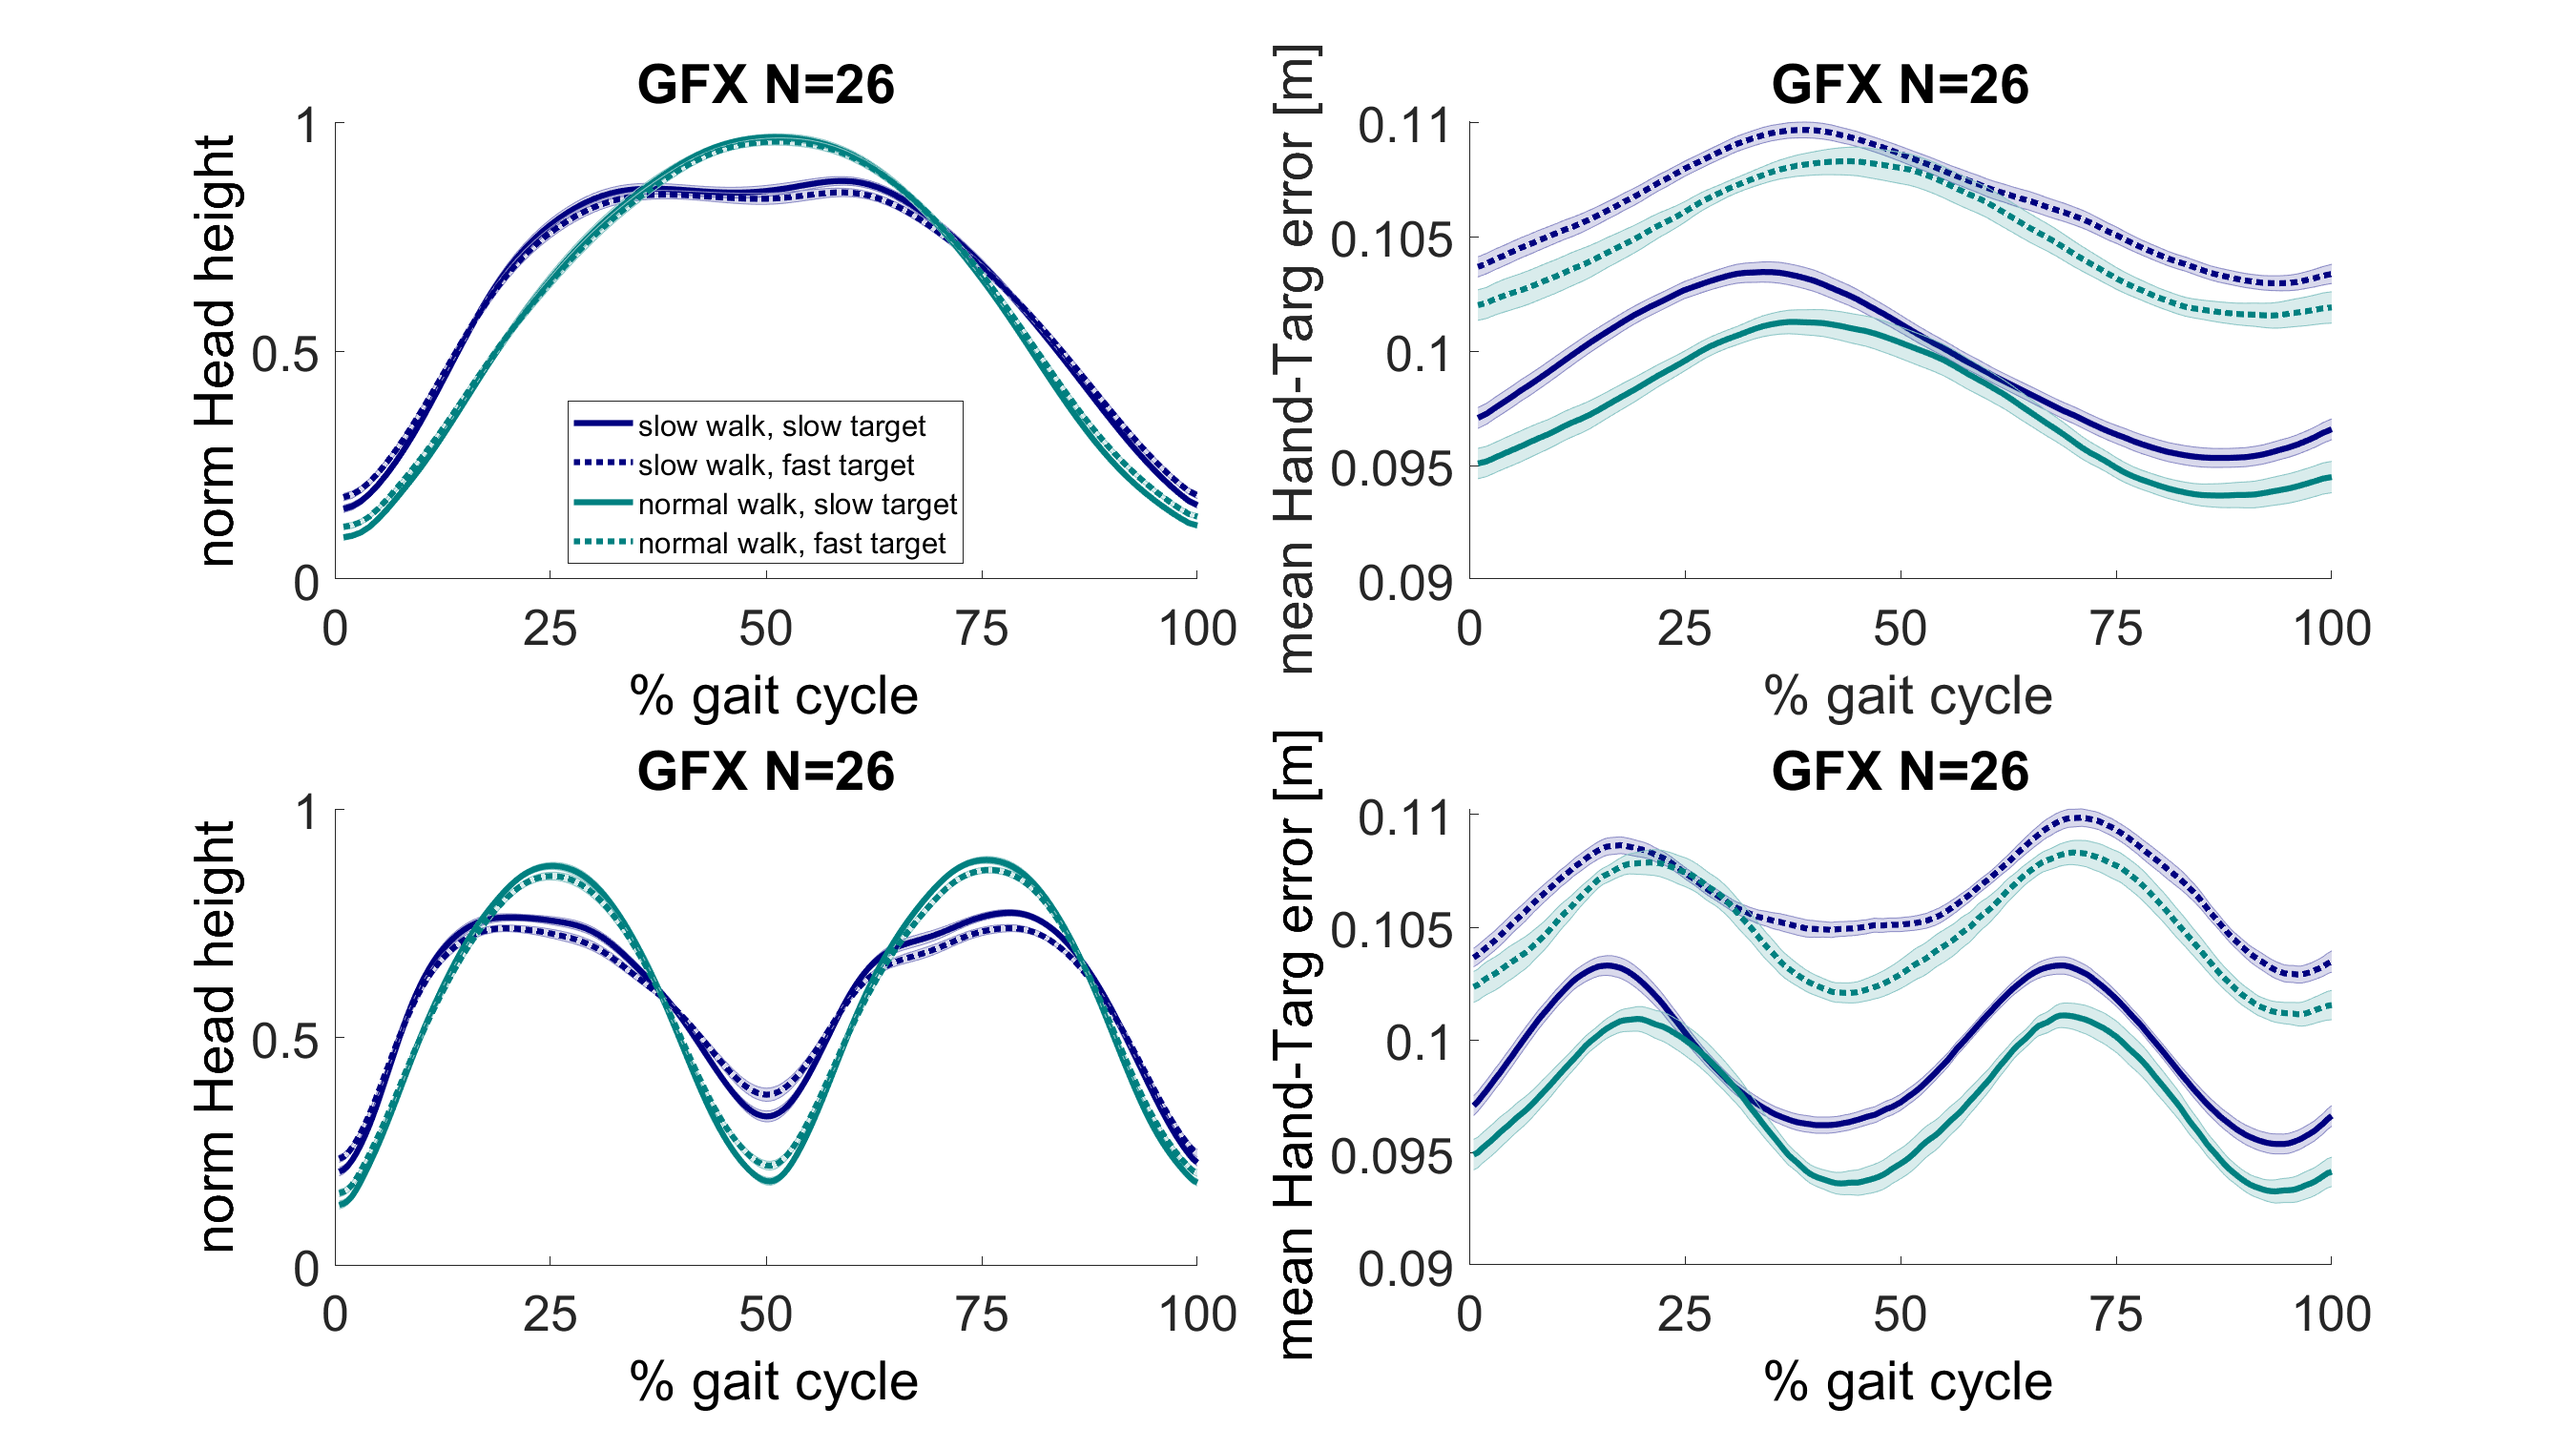
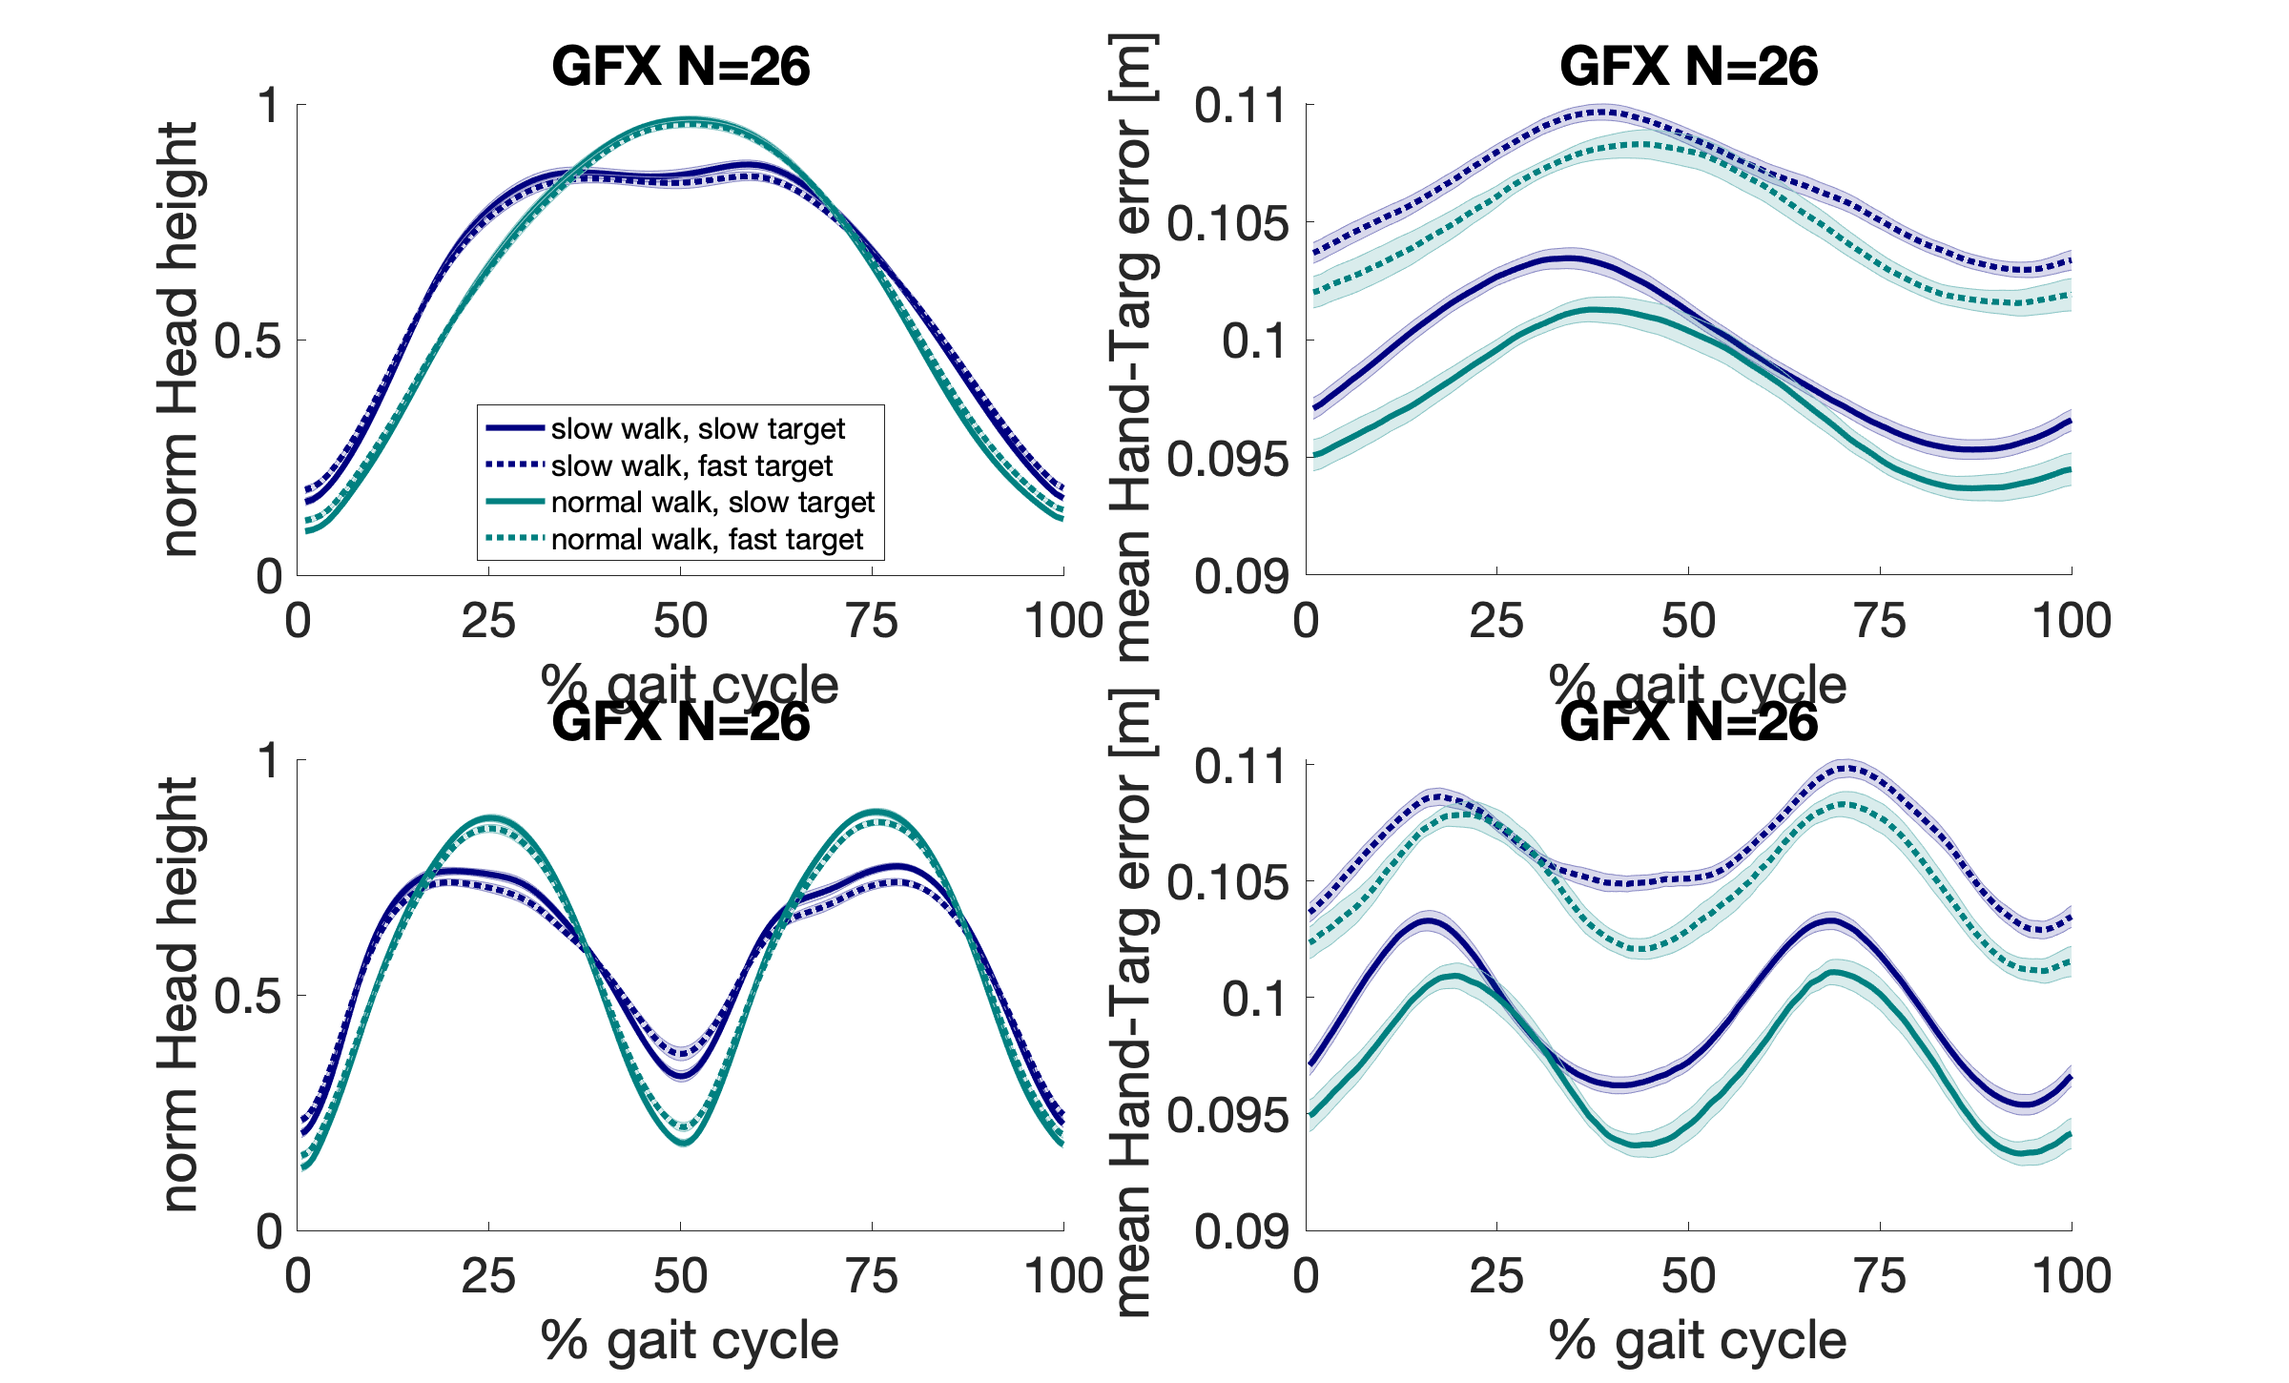
plotting and directory changes

diff --git a/Analysis Code/Tracking ver 0/support_files/VR_import_plot.m b/Analysis Code/Tracking ver 0/support_files/VR_import_plot.m
@@ -4,11 +4,11 @@
 %%%%%% TRACKING TASK version %%%%%%
 %frame by frame first:
 %Mac:
-%  datadir='/Users/matthewdavidson/Documents/GitHub/active-perception-tracking_ver0/Analysis Code/Tracking ver 0/Raw_data';
+ datadir='/Users/matthewdavidson/Documents/GitHub/active-perception-tracking_ver0/Analysis Code/Tracking ver 0/Raw_data';
 %mac-HD
 % datadir = '/Volumes/WHITEHD_TB/Tracking ver 0/Raw_data';
  %PC:
-datadir='C:\Users\User\Documents\matt\GitHub\active-perception-tracking_ver0\Analysis Code\Tracking ver 0\Raw_data';
+% datadir='C:\Users\User\Documents\matt\GitHub\active-perception-tracking_ver0\Analysis Code\Tracking ver 0\Raw_data';
 %PC-HD
 % datadir = 'E:\Tracking ver 0\Raw_data';%%
 
@@ -21,7 +21,7 @@ nsubs= length(pfols);
 tr= table([1:length(pfols)]',{pfols(:).name}' );
 disp(tr)
 %% Per csv file, import and wrangle into Matlab Structures, and data matrices:
-for ippant = 20:nsubs
+for ippant = 12:nsubs
    %%
     cd(datadir)
    

diff --git a/Analysis Code/Tracking ver 0/support_files/j4_plotError_by_gaitcycle.m b/Analysis Code/Tracking ver 0/support_files/j4_plotError_by_gaitcycle.m
@@ -124,7 +124,7 @@ if job.plotGFX_gcycles
     % pass in some details needed for accurate plots:
     cfg=[];
     cfg.subjIDs = subjIDs;
-    cfg.errortype = 'mean'; % std
+    cfg.errortype = 'std'; % std
     cfg.datadir= datadir; % for orienting to figures folder
     cfg.HeadData= GFX_headY;
     cfg.plotlevel = 'GFX';
